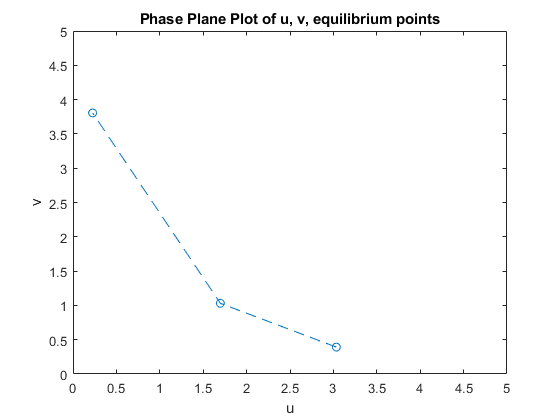
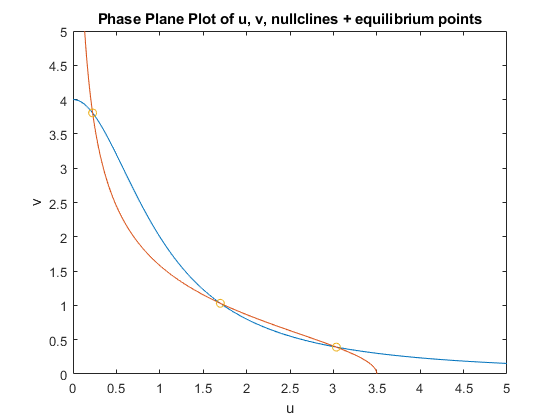
finished q2

diff --git a/Lab_assignments/lab3/lab3.m b/Lab_assignments/lab3/lab3.m
@@ -19,13 +19,114 @@ null_u = roots(u_co);
 null_u = null_u (null_u > 0);
 null_v = a2 ./ (1 + null_u.^2);
 
-% plot phase plane
-u_range = 0:0.01:10;
-v_range = 0:0.01:10;
+% plotting polynomial
+u = 0:0.01:5;
+v = 0:0.01:5;
+u_null = a1./(1+v.^2);
+v_null = a2./(1+u.^2);
 
-plot(null_u,null_v,'--o')
+figure;
+plot(u,v_null)
+hold on
+plot(u_null,v)
+plot(null_u, null_v, 'o')
 xlabel('u')
 ylabel('v')
 xlim([0 5])
 ylim([0 5])
-title('Phase Plane Plot of u, v, equilibrium points')
+title('Phase Plane Plot of u, v, nullclines + equilibrium points')
+
+% stability analysis - get eigenvalues @ each eq point
+J1 = [-1, -2*null_v(1)*a1/((1+null_v(1)^2)^2);
+        -2*null_u(1)*a2/((1+null_u(1)^2)^2), -1];
+[V1,D1] = eig(J1);
+    
+J2 = [-1, -2*null_v(2)*a1/(1+null_v(2)^2)^2;
+    -2*null_u(2)*a2/(1+null_u(2)^2)^2, -1];
+[V2,D2] = eig(J2);
+
+J3 = [-1, -2*null_v(3)*a1/(1+null_v(3)^2)^2;
+    -2*null_u(3)*a2/(1+null_u(3)^2)^2, -1];
+[V3,D3] = eig(J3);
+
+%% Question 2: Phase Plane Analysis
+
+clearvars -except null_u null_v a1 a2 V1 D1 V2 D2 V3 D3
+
+% define eq points
+eq1 = [null_u(1), null_v(1)];
+eq2 = [null_u(2), null_v(2)];
+eq3 = [null_u(3), null_v(3)];
+
+% solve trajectories for array of initial conditions
+
+% real-time plotting magic
+figure;
+plot(null_u, null_v, 'o')
+hold on
+xlabel('u')
+ylabel('v')
+xlim([0 5])
+ylim([0 5])
+title('Phase Plane Plot of u, v trajectories')
+
+tspan = [0 50];
+for i = 0:5
+    u0 = i;
+    for j = 0:5
+        v0 = j;
+        [t,y] = ode45(@ode_uv,tspan,[u0 v0]);
+        u = y(:,1);
+        v = y(:,2);
+        
+        % colors + add to plot
+        if [round(u(end),2), round(v(end),2)] == round(eq1,2)
+            plot(u,v,'Color','[0.929 0.694 0.098]') % gold
+        end
+        
+        if [round(u(end),2),round(v(end),2)] == round(eq2,2)
+            plot(u,v,'c') % cyan
+        end
+        
+        if [round(u(end),2),round(v(end),2)] == round(eq3,2)
+            plot(u,v,'Color','[0.494 0.184 0.556]') % PURPLE
+        end
+        %pause(0.1)
+        
+    end
+end
+
+% plotting eigenvalues + eigenvectors (EXTRA CREDIT)
+% line centered @ each EQ point, length of eigenvalue + direction
+% of eigenvector 
+% color black or red depending on sign of eigenvalue
+% black = pos, red = neg
+Ds = [diag(D1); diag(D2); diag(D3)];
+EQs = [eq1; eq2; eq3];
+Vs = [V1; V2; V3];
+
+for idx = 1:3
+    D = Ds(2*idx-1:2*idx);
+    eq = EQs(idx,:);
+    V = Vs(2*idx-1:2*idx,:);
+    x_eq1 = [eq(1) - V(1,1)*sqrt(2)*D(1),eq(1) + V(1,1)*sqrt(2)*D(1)];
+    y_eq1 = [eq(2) - V(2,1)*sqrt(2)*D(1),eq(2) + V(2,1)*sqrt(2)*D(1)];
+    if D(1) > 0
+        plot(x_eq1,y_eq1,'-k')
+    else
+        plot(x_eq1,y_eq1,'-r')
+    end
+
+    x_eq1b = [eq(1) - V(1,2)*sqrt(2)*D(2),eq(1) + V(1,2)*sqrt(2)*D(2)];
+    y_eq1b = [eq(2) - V(2,2)*sqrt(2)*D(2),eq(2) + V(2,2)*sqrt(2)*D(2)];
+    plot(x_eq1b,y_eq1b,'-r')
+    
+    if D(1) > 0
+        plot(x_eq1b,y_eq1b,'-k')
+    else
+        plot(x_eq1b,y_eq1b,'-r')
+    end
+end
+
+%% Question 3: Bifurcation Analysis
+
